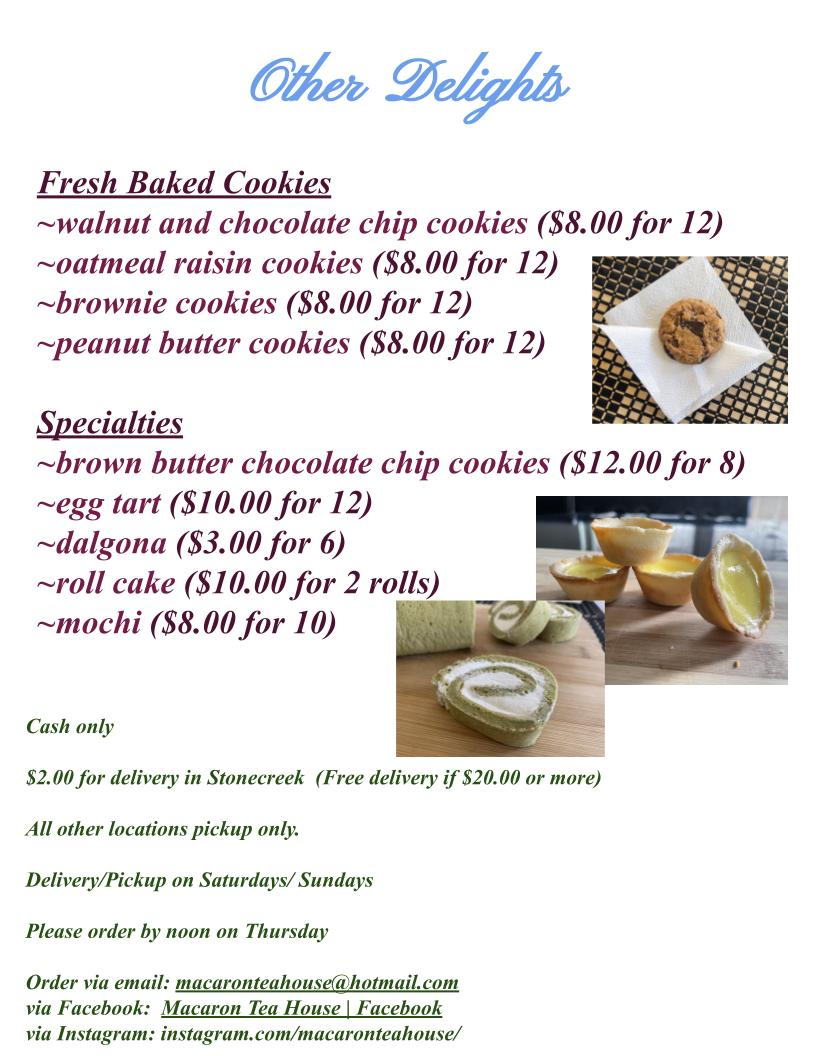
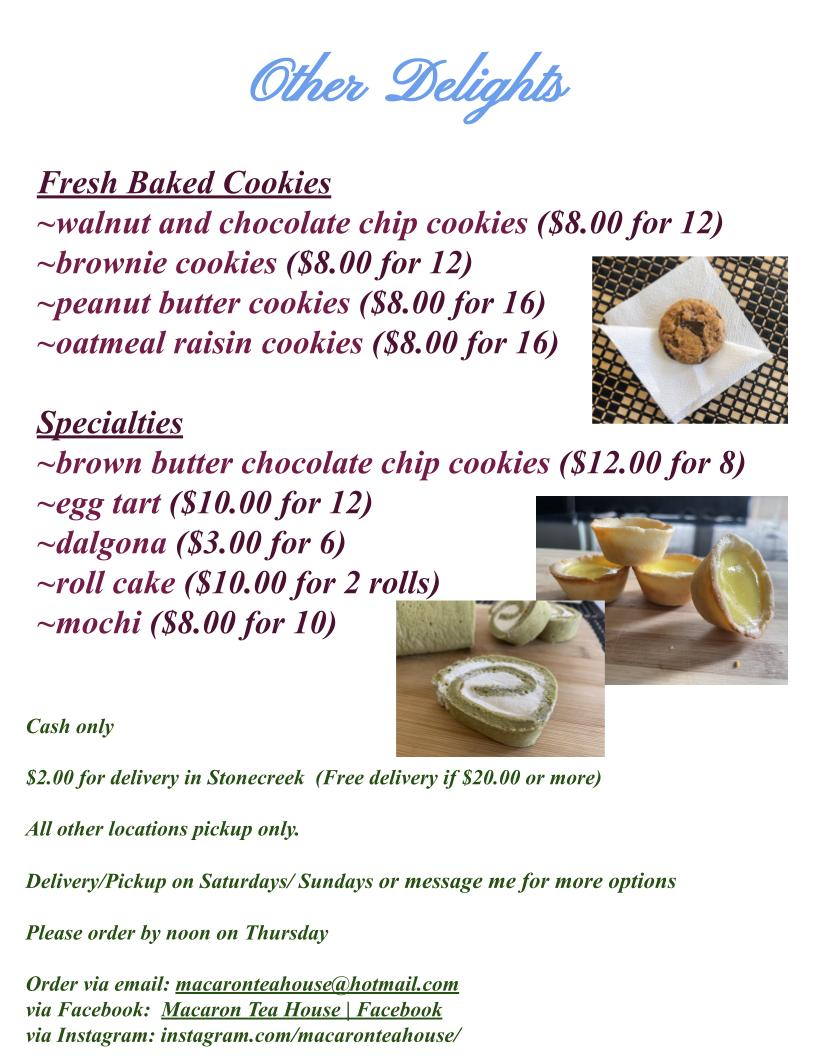
ee

Changed region(s): [[0.0613, 0.2188, 0.7047, 0.3438], [0.0306, 0.875, 0.5821, 1.0], [0.0306, 0.8125, 0.8272, 0.8438]]

diff --git a/A_Special.html b/A_Special.html
@@ -63,18 +63,20 @@
 
 <body>
 <container id="title">
-	<h1> <p style="font-size:200%; width:100%"> <b> <i> Rose Macarons </b> </i> </p> </h1>
+	<h1> <p style="font-size:200%; width:100%"> <b> <i> Lemon Macarons </b> </i> </p> </h1>
 </container>
 <container id="info">
 	<div id="chocC">
 
-		<img src="Pictures/rose.jpg" width="80%" height="auto">
+		<img src="Pictures/lem.jpg" width="80%" height="auto">
 	</div>
 	<div id="choc">
 
-		<p style="font-size:150%;color:#05b09f" width="100%" height="auto">This cookie has a mildly sweet and unique flavor. It tastes like how a rose smells. It can be enjoyed with a cup of rose tea.
-			The cookie has a crunchy exterior with a soft interior. It can be stored in the fridge for up to a week.
-			Remember to let it sit out at room temperature for 10-15 minutes before eating. $14.00 for 10 macarons.</p>
+		<p style="font-size:150%;color:#05b09f" width="100%" height="auto">This cookie has a crunchy outside but a soft inside. It
+		has a strong lemon flavor but is not sour. It is finished off
+		with a drizzle of white chocolate and a sprinkle of lemon zest.
+		It can be enjoyed with a cup of warm oolong tea. Remember to take it out
+		of the fidge and set it at room temperature for 10-15 minutes. $14.00 for 10 macarons.</p>
 	</div>
 </container>
 <container id= "both">
@@ -82,7 +84,7 @@
 <p style="font-size:160%; color:#000000; position:relative; width:100%; margin:auto"> <u>Ingredients</u> <br>
 	~blanched almond flour <br> ~powdered sugar <br> ~free range egg whites
 	<br> ~organic unbleached cane sugar <br> ~cream of tartar <br> ~fresh cream
-	<br> ~lemon <br> ~organc rose water
+	<br> ~lemon <br>~white chocolate
 </div>
 
 	<div id="button-4">

diff --git a/A_OtherBakedGoods.html b/A_OtherBakedGoods.html
@@ -112,7 +112,7 @@
 		</div>
 		<div id="Oatmeal">
 		<p> <img src="Pictures/oatmealrasin.jpg" width="100%" height="auto"></p>
-		<p style="position:relative;"> <u> Oatmeal Raisin Cookies </u>($8.00 for 12) </p>
+		<p style="position:relative;"> <u> Oatmeal Raisin Cookies </u>($8.00 for 16) </p>
 		</div>
 		<div id="Cookie">
 		<p> <img src="Pictures/coc.jpg" width="100%" height="auto"></p>
@@ -122,7 +122,7 @@
   <container id="row-2">
 		<div id="PeanutCookie">
 		<img src="Pictures/Peanut Butter.jpg" width="100%" height="auto">
-		<p style="position:relative;"><u> Peanut Butter Cookie</u> ($8.00 for 12) </p>
+		<p style="position:relative;"><u> Peanut Butter Cookie</u> ($8.00 for 16) </p>
 		</div>
 		<div id="EggTart">
 		<img src="Pictures/eggtart.jpg" width="100%" height="auto">

diff --git a/Rose.html b/Rose.html
@@ -72,7 +72,7 @@
 	<div id="rose">
 		<p style="font-size:150%;color:#05b09f" width="100%" height="auto">	This cookie has a mildly sweet and unique flavor. It tastes like how a rose smells. It can be enjoyed with a cup of rose tea.
 			The cookie has a crunchy exterior with a soft interior. It can be stored in the fridge for up to a week.
-			Remember to let it sit out at room temperature for 10-15 minutes before eating. $14.00 for 10 macarons. </p>
+			Remember to let it sit out at room temperature for 10-15 minutes before eating. $16.00 for 10 macarons. </p>
 	</div>
 </container>
 <container id= "both">

diff --git a/Lemon.html b/Lemon.html
@@ -74,7 +74,7 @@
 		has a strong lemon flavor but is not sour. It is finished off
 		with a drizzle of white chocolate and a sprinkle of lemon zest.
 		It can be enjoyed with a cup of warm oolong tea. Remember to take it out
-		of the fidge and set it at room temperature for 10-15 minutes. $16.00 for 10 macarons.
+		of the fidge and set it at room temperature for 10-15 minutes. $14.00 for 10 macarons.
 		</p>
 	</div>
 </container>
